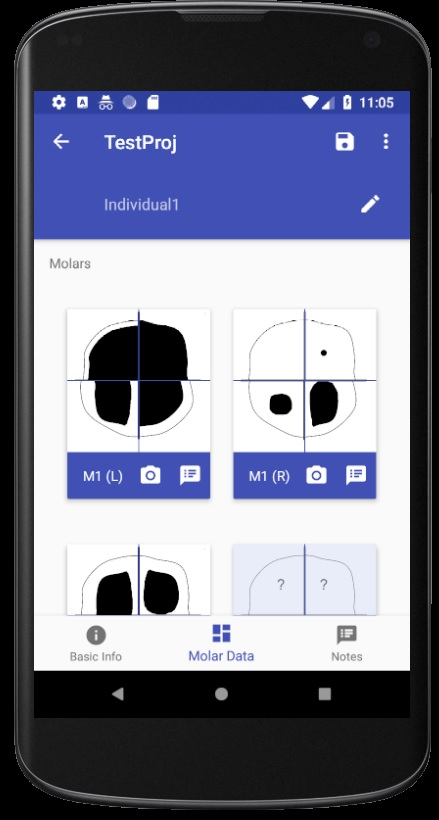
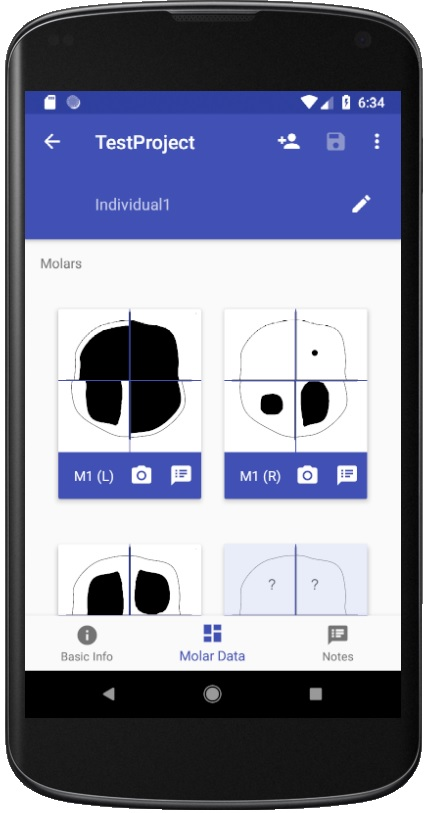
-Add "Media" section to Readme -Update preview image for Dental Wear Editor screen

diff --git a/Readme.md b/Readme.md
@@ -2,9 +2,6 @@
 
 MolWear is an Android app that aims to simplify the recording and sharing of observational/descriptive data about dental wear on molars for anthropological research purposes.  
 
-## About  
-
-*@TODO*  
 
 ## Built With  
 
@@ -29,6 +26,17 @@ MolWear is an Android app that aims to simplify the recording and sharing of obs
  * **[Kasual Business](http://www.kasual.biz/)** - Creators of [MaterialNumberPicker](https://github.com/KasualBusiness/MaterialNumberPicker)  
  * **[Pascal Hartig](https://github.com/passy)** - Creator of the [DirectoryChooser](https://github.com/passy/Android-DirectoryChooser) library used by this app  
  * **[The-QRCode-Generator](https://www.the-qrcode-generator.com/)** - QR Code generator
+
+
+## Media  
+
+ * Additional images can be found [here](docs/images).  
+
+<p align="center">
+<img align="center" title="Dental wear editor screen (click to see full size)" src="https://github.com/SeanPesce/Molar-Wear/blob/master/docs/images/04.jpg?raw=true" alt="Screenshot" height="400px">
+<br>
+<sup>Dental wear editor screen</sup>
+</p>  
 
 
 ## License  
